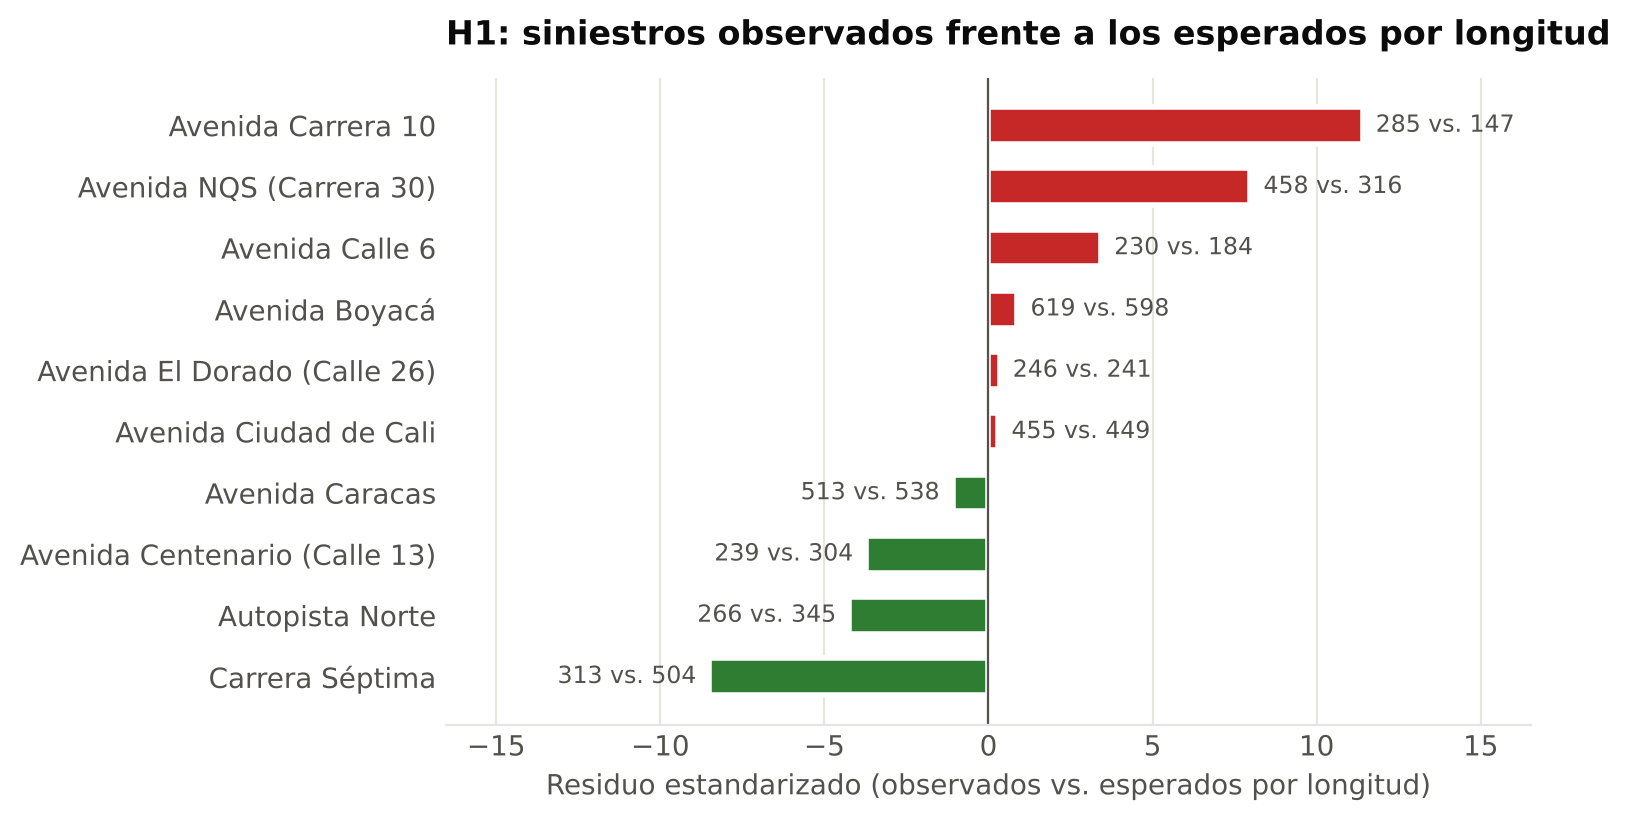
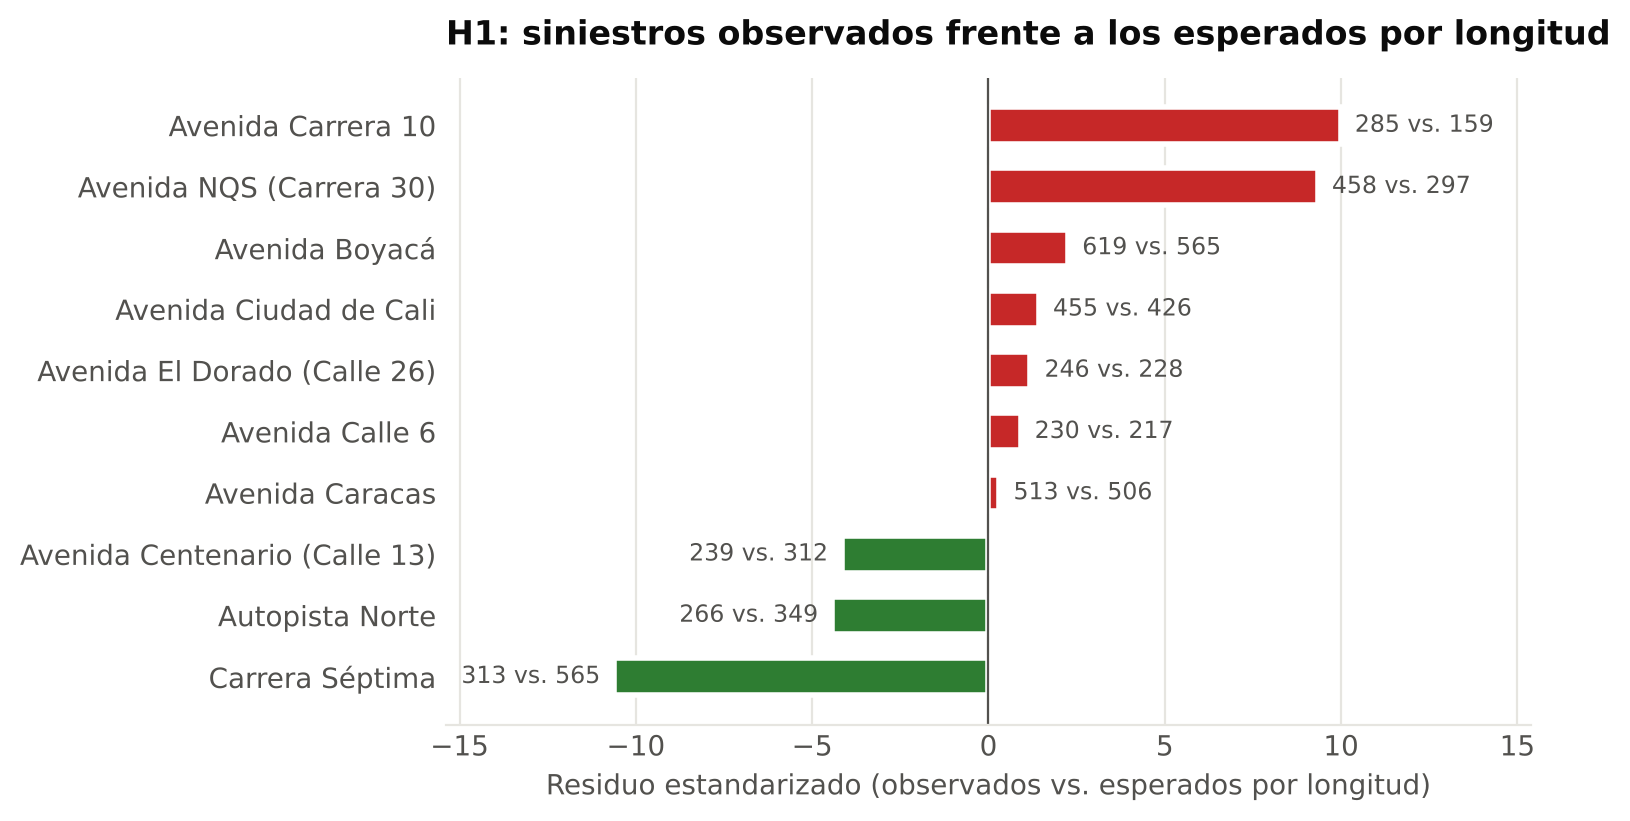
Informe con las longitudes medidas por el script: H1, tasas, propuesta 1 y limitación de asignación

diff --git a/docs/main.tex b/docs/main.tex
@@ -789,16 +789,16 @@ apariciones, sin realizar una selección aleatoria.
 \textbf{Orden} & \textbf{Corredor} & \textbf{Apariciones} & \textbf{Longitud}\newline\textbf{(km)}\\
 \midrule
 \endhead
-1 & Avenida Boyacá & 637 & 29,3\\
+1 & Avenida Boyacá & 637 & 29,5\\
 2 & Avenida Caracas & 525 & 26,4\\
-3 & Avenida Ciudad de Cali & 470 & 22,0\\
+3 & Avenida Ciudad de Cali & 470 & 22,2\\
 4 & Avenida NQS (Carrera 30) & 467 & 15,5\\
-5 & Carrera Séptima & 316 & 24,7\\
-6 & Avenida Carrera 10 & 297 & 7,2\\
-7 & Avenida El Dorado (Calle 26) & 288 & 11,8\\
-8 & Avenida Calle 6 & 274 & 9,0\\
-9 & Autopista Norte & 267 & 16,9\\
-10 & Avenida Centenario (Calle 13) & 259 & 14,9\\
+5 & Carrera Séptima & 316 & 29,5\\
+6 & Avenida Carrera 10 & 297 & 8,3\\
+7 & Avenida El Dorado (Calle 26) & 288 & 11,9\\
+8 & Avenida Calle 6 & 274 & 11,3\\
+9 & Autopista Norte & 267 & 18,2\\
+10 & Avenida Centenario (Calle 13) & 259 & 16,3\\
 \bottomrule
 \end{longtable}
 \endgroup
@@ -815,18 +815,29 @@ de la tabla \ref{tab:seleccion-corredores} no deben sumarse como eventos
 
 Las longitudes se midieron sobre la Malla Vial Integral de Bogotá
 \citep{ideca}, la capa oficial de la red vial de la ciudad, que trae cada
-tramo con su nombre y geometría. Para cada corredor se midió el
-recorrido más largo a lo largo de su eje, contando una sola vez las vías
-de doble calzada, sumando los trozos separados y omitiendo los de menos
-de 0,3 km. Estas longitudes oficiales reemplazaron las de OpenStreetMap
-de una primera versión del proyecto, que en algunos corredores eran
-mucho mayores: por ejemplo, El Dorado pasó de 22,6 a 11,8 km y
-Autopista Norte de 28,4 a 16,9 km. Como control, se verificó qué parte de los siniestros asignados
-a cada corredor cae a menos de 150 m de su eje: entre el 89\,\% y el
-97\,\% en ocho corredores, el 80\,\% en la Séptima, cuyo eje oficial
-empieza en el centro, y el 76\,\% en la Calle 6, cuyo trazado combina
-tramos con varios nombres. En Centenario, la longitud incluye la Avenida
-Colón y el tramo occidental. Las tasas por kilómetro
+tramo con su nombre y geometría. Para cada corredor se incluyeron
+todos los tramos con el nombre oficial de la avenida, aunque cambie su
+nomenclatura (por ejemplo, la Autopista Norte aparece como AK 45, AK 20
+y KR 23), y los tramos sin nombre que la continúan con el mismo número.
+Se midió el recorrido más largo a lo largo del eje, contando una sola
+vez las vías de doble calzada, sumando los trozos separados y omitiendo
+los de menos de 0,3 km. El procedimiento es reproducible con el módulo
+\texttt{siniestralidad.longitudes} del repositorio. Estas longitudes
+reemplazaron las de OpenStreetMap de una primera versión del proyecto,
+que en algunos corredores eran mucho mayores: El Dorado pasó de 22,6 a
+11,9 km y Autopista Norte de 28,4 a 18,2 km. Como control, se verificó
+qué parte de los siniestros asignados a cada corredor cae a menos de
+150 m del eje medido: entre el 85,2\,\% (Calle 6) y el 97,1\,\%
+(Caracas).
+
+La asignación de siniestros y la medición de longitudes no siguen
+exactamente la misma regla: la longitud incluye los tramos con otra
+nomenclatura, pero el siniestro se asigna por el número o el nombre que
+aparece en su dirección. Por ello, algunos eventos ocurridos sobre esos
+tramos quedaron fuera de los corredores; una cota aproximada, que
+incluye cruces y puede repetir eventos entre corredores, va de 6 en la
+Carrera 10 a 114 en Centenario. Se decidió conservar la asignación por
+dirección y reportar esta diferencia como limitación. Las tasas por kilómetro
 son sensibles a esa delimitación y no sustituyen una medida de exposición
 basada en flujos de tránsito.
 
@@ -929,16 +940,16 @@ asociaciones estadísticas ni relaciones causales.
 \textbf{Corredor} & \textbf{Eventos} & \textbf{\%} & \textbf{km} & \textbf{Por km}\\
 \midrule
 \endhead
-Avenida Boyacá & 619 & 17,08 & 29,3 & 21,13\\
+Avenida Boyacá & 619 & 17,08 & 29,5 & 20,98\\
 Avenida Caracas & 513 & 14,16 & 26,4 & 19,43\\
 Avenida NQS (Carrera 30) & 458 & 12,64 & 15,5 & 29,55\\
-Avenida Ciudad de Cali & 455 & 12,56 & 22,0 & 20,68\\
-Carrera Séptima & 313 & 8,64 & 24,7 & 12,67\\
-Avenida Carrera 10 & 285 & 7,86 & 7,2 & 39,58\\
-Autopista Norte & 266 & 7,34 & 16,9 & 15,74\\
-Avenida El Dorado (Calle 26) & 246 & 6,79 & 11,8 & 20,85\\
-Avenida Centenario (Calle 13) & 239 & 6,59 & 14,9 & 16,04\\
-Avenida Calle 6 & 230 & 6,35 & 9,0 & 25,56\\
+Avenida Ciudad de Cali & 455 & 12,56 & 22,2 & 20,50\\
+Carrera Séptima & 313 & 8,64 & 29,5 & 10,61\\
+Avenida Carrera 10 & 285 & 7,86 & 8,3 & 34,34\\
+Autopista Norte & 266 & 7,34 & 18,2 & 14,62\\
+Avenida El Dorado (Calle 26) & 246 & 6,79 & 11,9 & 20,67\\
+Avenida Centenario (Calle 13) & 239 & 6,59 & 16,3 & 14,66\\
+Avenida Calle 6 & 230 & 6,35 & 11,3 & 20,35\\
 \midrule
 Total & 3.624 & 100,00 & & \\
 \bottomrule
@@ -955,8 +966,9 @@ de conteo.
 La tasa descriptiva se calculó como $T_c=n_c/L_c$, donde $n_c$ es el
 número anual de eventos asignados al corredor y $L_c$ su longitud de
 referencia en kilómetros. Al ajustar por longitud, los tres mayores
-valores correspondieron a Carrera 10 (39,58), NQS (29,55) y Calle 6
-(25,56), como muestra la figura \ref{fig:oe2-corredores}. Boyacá lideró
+valores correspondieron a Carrera 10 (34,34), NQS (29,55) y Boyacá
+(20,98), seguidos muy de cerca por El Dorado (20,67), Ciudad de Cali
+(20,50) y Calle 6 (20,35), como muestra la figura \ref{fig:oe2-corredores}. Boyacá lideró
 el volumen absoluto, pero su mayor longitud hizo que no liderara este
 indicador. Se trata de concentración de registros por unidad de longitud;
 sin aforos de vehículos o personas no puede interpretarse como
@@ -1170,7 +1182,7 @@ la asignación de intersecciones y la validación geográfica por ventana.
 El segundo objetivo produjo nueve tablas descriptivas, seis gráficos y
 los mapas de concentración general, de detalle e interactivo. Se identificaron
 Boyacá, Caracas y NQS como los tres corredores de mayor conteo, y
-Carrera 10, NQS y Calle 6 como los de mayor concentración por kilómetro.
+Carrera 10 y NQS como los de mayor concentración por kilómetro, por encima de un grupo de cuatro corredores con valores muy similares.
 Las franjas de mayor conteo fueron mediodía, tarde y mañana; al ajustar
 por duración, tarde y mañana ocuparon los primeros lugares. La alta
 participación registrada de motocicleta y la diferencia entre volumen
@@ -1221,7 +1233,7 @@ confianza bilateral del 95\,\% \citep{statsmodels}.
 \textbf{Prueba} & \textbf{Estadístico} & \textbf{p ajustado} & \textbf{Efecto} & \textbf{Decisión}\\
 \midrule
 \endhead
-H1 & $\chi^2=311{,}648$ & $3{,}52\times10^{-61}$ & $w=0{,}293$ & Rechazar $H_0$\\
+H1 & $\chi^2=345{,}932$ & $1{,}82\times10^{-68}$ & $w=0{,}309$ & Rechazar $H_0$\\
 H2a & $\chi^2=77{,}228$ & $7{,}06\times10^{-13}$ & $V=0{,}103$ & Rechazar $H_0$\\
 H2b & $\chi^2=32{,}211$ & $4{,}05\times10^{-7}$ & $V=0{,}094$ & Rechazar $H_0$\\
 H3 & $z=11{,}624$ & $6{,}19\times10^{-31}$ & $OR=4{,}257$ & Rechazar $H_0$\\
@@ -1229,19 +1241,19 @@ H3 & $z=11{,}624$ & $6{,}19\times10^{-31}$ & $OR=4{,}257$ & Rechazar $H_0$\\
 \end{longtable}
 \endgroup
 
-En H1, $\chi^2(9)=311{,}648$ permitió rechazar la proporcionalidad
-por longitud. Carrera 10 registró 285 eventos frente a 146,8 esperados;
-NQS, 458 frente a 316,1; y Calle 6, 230 frente a 183,5. El exceso de
-la Calle 6 es el menos firme: si se cuentan solo los siniestros situados
-a menos de 150 m de su eje, prácticamente coincide con lo esperado.
+En H1, $\chi^2(9)=345{,}932$ permitió rechazar la proporcionalidad
+por longitud. Carrera 10 registró 285 eventos frente a 159,1 esperados
+y NQS, 458 frente a 297,0. Ambos excesos se mantienen si se cuentan
+solo los siniestros situados a menos de 150 m del eje (264 frente a
+149,1 y 428 frente a 278,5).
 Sus residuos positivos indican un exceso respecto de ese modelo,
 no respecto de la cantidad de usuarios que circulan por cada vía.
-Boyacá tuvo el mayor volumen absoluto, pero un número cercano al
-esperado por su longitud: 619 frente a 597,5; lo mismo ocurrió con El
-Dorado y Ciudad de Cali. Los mayores déficits correspondieron a la
-Séptima (313 frente a 503,7), Autopista Norte (266 frente a 344,7) y
-Centenario (239 frente a 303,9). El efecto $w=0{,}293$, pequeño según
-los umbrales adoptados, describe la desviación global, sin equipararlo
+Boyacá tuvo el mayor volumen absoluto y un exceso moderado (619 frente
+a 565,4). Ciudad de Cali, El Dorado, Calle 6 y Caracas quedaron cerca de
+lo esperado. Los mayores déficits correspondieron a la Séptima (313
+frente a 565,4), Autopista Norte (266 frente a 348,8) y Centenario (239
+frente a 312,4). El efecto $w=0{,}309$, apenas por encima del umbral de
+0,3 y por tanto en el límite entre pequeño y mediano, describe la desviación global, sin equipararlo
 a una probabilidad de accidente ni compararlo directamente con V.
 
 \begin{figure}[H]
@@ -1647,12 +1659,13 @@ causales.
 En la dimensión espacial, Boyacá fue el corredor con mayor número absoluto
 de eventos (619), seguido por Caracas (513) y NQS (458). Sin embargo, el
 riesgo operacional no puede inferirse únicamente de estos totales. Al ajustar
-por longitud, Carrera 10 obtuvo la mayor concentración descriptiva (39,58
-eventos por kilómetro), seguida por NQS (29,55) y Calle 6 (25,56). La
+por longitud, Carrera 10 obtuvo la mayor concentración descriptiva (34,34
+eventos por kilómetro), seguida por NQS (29,55); los demás corredores se
+situaron por debajo de 21. La
 hipótesis H1 confirmó que la distribución observada no es proporcional a la
-longitud de los corredores: $\chi^2(9)=311{,}648$, $p=3{,}52\times10^{-61}$
-y $w=0{,}293$. Los excesos de Carrera 10 y NQS, el menos firme de la Calle 6
-y los déficits de la Séptima y Autopista Norte son consistentes con la concentración por kilómetro; no indican
+longitud de los corredores: $\chi^2(9)=345{,}932$, $p=1{,}82\times10^{-68}$
+y $w=0{,}309$. Los excesos de Carrera 10 y NQS y los déficits de la
+Séptima, Autopista Norte y Centenario son consistentes con la concentración por kilómetro; no indican
 por sí solos mayor probabilidad de siniestro para una persona que transita,
 dado que no se contó con aforos ni exposición vehicular.
 
@@ -1811,7 +1824,7 @@ muertos. La tabla \ref{tab:oe6-propuestas} las resume.
 \textbf{Propuesta} & \textbf{Hallazgo que la sustenta} & \textbf{Corredores}\\
 \midrule
 \endhead
-1. Intervención en los cruces densos de las avenidas cortas & Más siniestros por kilómetro de los esperados por su longitud (H1) y zonas densas como Carrera 10 con Calle 1 (11,0\,\% con muertos) y NQS con Calle 29 Sur (12,9\,\%) & Carrera 10, NQS y Calle 6\\
+1. Intervención en los cruces densos de la Carrera 10 y la NQS & Más siniestros de los esperados por su longitud (H1) y zonas densas como Carrera 10 con Calle 1 (11,0\,\% con muertos) y NQS con Calle 29 Sur (12,9\,\%) & Carrera 10 y NQS\\
 2. Protección de peatones y personas mayores & El perfil de atropellos tiene 11,5\,\% de eventos con muertos y está sobrerrepresentado en la Caracas & Caracas\\
 3. Control a vehículos de carga & El 16,7\,\% de los siniestros con carga tiene muertos, cerca de tres veces el promedio & Boyacá y Ciudad de Cali\\
 4. Control de velocidad y alcohol en la noche y la madrugada & La velocidad es la condición más asociada a siniestros con muertos (\emph{lift} de 8,3) y la embriaguez se concentra de noche & Todos, entre las 20:00 y las 6:00\\
@@ -1819,10 +1832,10 @@ muertos. La tabla \ref{tab:oe6-propuestas} las resume.
 \end{longtable}
 \endgroup
 
-\paragraph{1. Intervención en los cruces densos de las avenidas cortas.}
-La Carrera 10, la NQS y la Calle 6 tienen más siniestros de los que
-corresponden a su longitud: 285 frente a 146,8 esperados en la Carrera
-10, 458 frente a 316,1 en la NQS y 230 frente a 183,5 en la Calle 6. El
+\paragraph{1. Intervención en los cruces densos de la Carrera 10 y la NQS.}
+La Carrera 10 y la NQS son los únicos corredores con un exceso claro
+respecto de su longitud: 285 frente a 159,1 esperados en la Carrera 10
+y 458 frente a 297,0 en la NQS. El
 cruce de la Carrera 10 con Calle 1 es la zona más densa de la base, con
 73 siniestros, de los cuales el 11,0\,\% tuvo muertos. Se propone hacer
 auditorías de seguridad vial en las diez zonas densas que lista el
@@ -1885,7 +1898,7 @@ propuestas se cumple el entregable del sexto objetivo.
 \begin{enumerate}[leftmargin=*,itemsep=6pt]
 \item Después del proceso de preparación y depuración, se obtuvieron 3.624 siniestros únicos registrados durante 2024 en diez corredores viales. Aunque se logró organizar y validar la información, es importante aclarar que estos datos no representan la totalidad de los siniestros en Bogotá, ya que el estudio se concentra únicamente en los corredores seleccionados.
 
-\item Las avenidas Boyacá, Caracas y NQS registraron la mayor cantidad de siniestros y concentraron en conjunto el 43,87\,\% de los casos. Sin embargo, al dividir por la longitud, la Carrera 10 presentó la mayor concentración (39,58 siniestros por kilómetro). Esto muestra que el total de siniestros de un corredor no basta para compararlo con otros: también debe considerarse su longitud.
+\item Las avenidas Boyacá, Caracas y NQS registraron la mayor cantidad de siniestros y concentraron en conjunto el 43,87\,\% de los casos. Sin embargo, al dividir por la longitud, la Carrera 10 presentó la mayor concentración (34,34 siniestros por kilómetro). Esto muestra que el total de siniestros de un corredor no basta para compararlo con otros: también debe considerarse su longitud.
 
 \item Los resultados muestran que el mediodía presentó la mayor cantidad de siniestros, seguido de la tarde. Esto indica que durante estos periodos se registra una actividad importante de siniestros viales. Sin embargo, para determinar si existe una mayor probabilidad de ocurrencia en estas horas, sería necesario contar con información adicional sobre el flujo vehicular.
 

diff --git a/README.md b/README.md
@@ -136,7 +136,7 @@ python -m streamlit run src/siniestralidad/app.py
 
 ## 🔎 Resultados principales
 
-- **H1:** los siniestros no se reparten según la longitud de los corredores (χ² = 311,6; w = 0,293, con longitudes de la Malla Vial Integral de Bogotá). La Carrera 10 y la NQS tienen muchos más de los esperados, y la Calle 6 un exceso menor.
+- **H1:** los siniestros no se reparten según la longitud de los corredores (χ² = 345,9; w = 0,309, con longitudes de la Malla Vial Integral de Bogotá). La Carrera 10 y la NQS tienen muchos más de los esperados, y la Séptima muchos menos.
 - **H2:** la gravedad depende de la franja (V = 0,10) y del tipo de día (V = 0,09). Las noches de fin de semana tienen más siniestros con muertos (7,4 % frente a 5,2 %).
 - **H3:** con motocicleta, el 96 % de los siniestros tiene víctimas, frente al 85 % sin ella (razón de momios 4,26).
 - **Perfiles:** 7 perfiles con K-means; el de atropellos es el más grave (11,5 % con muertos). DBSCAN encuentra 62 zonas densas; la mayor es la Carrera 10 con Calle 1 (73 siniestros).
